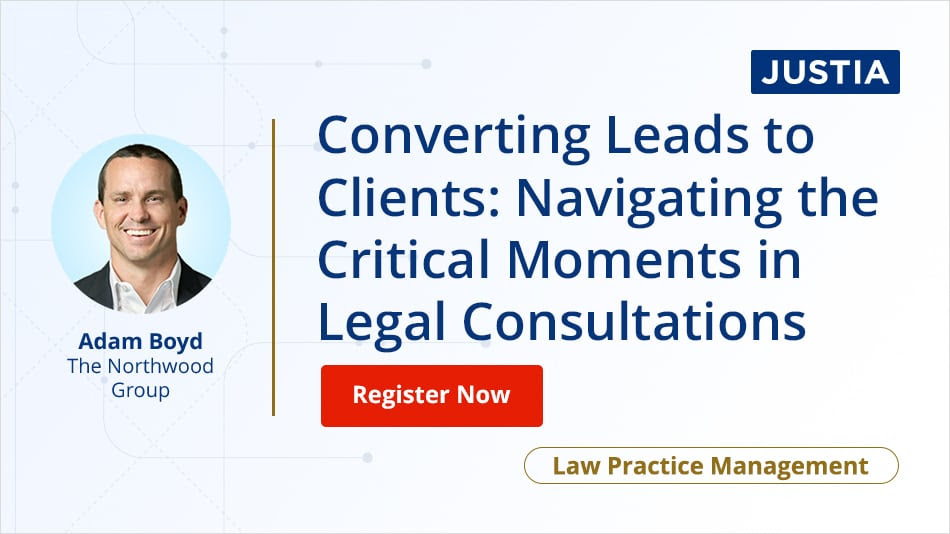
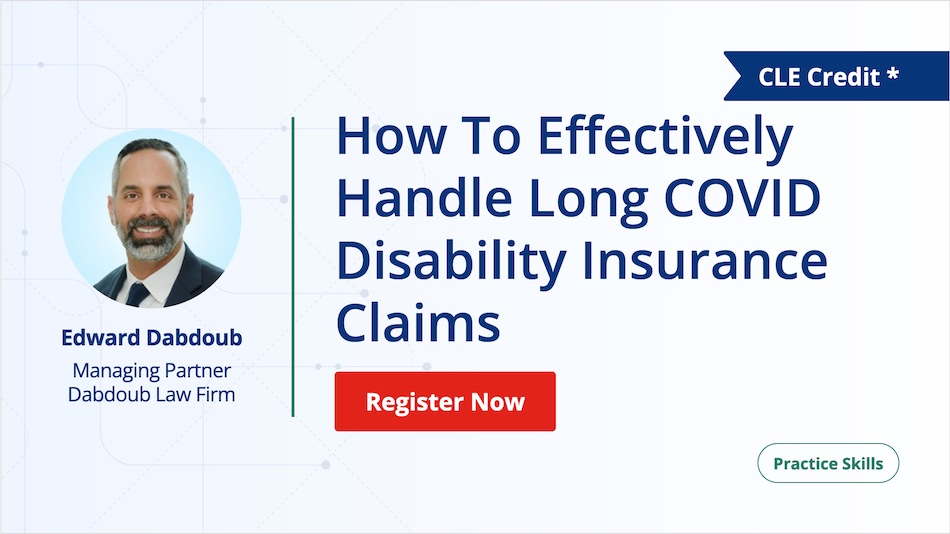
refactor: update webinar image and link

Changed region(s): [[0.0305, 0.0899, 1.0, 0.9288]]

diff --git a/dist/insights-newsletter.html b/dist/insights-newsletter.html
@@ -159,7 +159,7 @@
           <table border="0" cellpadding="0" cellspacing="0" align="center" width="100%" style="max-width:600px;margin:0 auto;border-bottom:0" bgcolor="#fff">
             <tr>
               <td style="margin:0 0 20px;padding:0 0 50px" align="left">
-                <a href="#" style="text-decoration:none;color:#06357a"><img src="https://justatic.com/v/1/emails/images/newsletters/2024/04/insights-welcome-01.jpg" alt="Welcome" border="0" style="display:block;max-width:100%"/></a>
+                <a href="#" style="text-decoration:none;color:#06357a"><img src="https://justatic.com/v/2/emails/images/newsletters/2024/04/insights-welcome-01.jpg" alt="Welcome" border="0" style="display:block;max-width:100%"/></a>
               </td>
             </tr>
             <tr>
@@ -189,9 +189,9 @@
               <td class="justia01" style="padding:0 30px 70px" align="left">
                 <div style="margin:0;padding:0">
                   <div style="margin:0 0 20px">
-                    <a href="https://connect.justia.com/webinars/converting-leads-to-clients-navigating-the-critical-moments-in-legal-consultations?utm_medium=email&utm_campaign=2024-04&utm_source=insights-newsletter&utm_content=image-webinar-1" target="_blank" style="text-decoration:none;color:#06357a"><img src="https://justatic.com/v/1/emails/images/newsletters/2024/04/insights-webinar-01.jpg" alt="How To Effectively Handle Long COVID Disability Insurance Claims" border="0" style="display:block;max-width:100%" width="580"/></a>
+                    <a href="https://connect.justia.com/webinars/how-to-effectively-handle-long-covid-disability-insurance-claims?utm_medium=email&utm_campaign=2024-04&utm_source=insights-newsletter&utm_content=image-webinar-1" target="_blank" style="text-decoration:none;color:#06357a"><img src="https://justatic.com/v/2/emails/images/newsletters/2024/04/insights-webinar-01.jpg" alt="How To Effectively Handle Long COVID Disability Insurance Claims" border="0" style="display:block;max-width:100%" width="580"/></a>
                   </div>
-                  <h3 style="font:700 22px/1.2 Arial,sans-serif;margin:0 0 10px;color:#06357a"><a href="https://connect.justia.com/webinars/converting-leads-to-clients-navigating-the-critical-moments-in-legal-consultations?utm_medium=email&utm_campaign=2024-04&utm_source=insights-newsletter&utm_content=text-webinar-title-1" target="_blank" style="text-decoration:none;color:#06357a">How To Effectively Handle Long COVID Disability Insurance Claims</a></h3>
+                  <h3 style="font:700 22px/1.2 Arial,sans-serif;margin:0 0 10px;color:#06357a"><a href="https://connect.justia.com/webinars/how-to-effectively-handle-long-covid-disability-insurance-claims?utm_medium=email&utm_campaign=2024-04&utm_source=insights-newsletter&utm_content=text-webinar-title-1" target="_blank" style="text-decoration:none;color:#06357a">How To Effectively Handle Long COVID Disability Insurance Claims</a></h3>
                   <p style="margin:0;font:18px/1.5 Arial,sans-serif">In this webinar, we will be discussing the complexities of handling a long COVID disability insurance claim and how best to present these claims to insurance companies. Insurance companies do not appreciate the extent to which long COVID symptoms can be disabling. Using our winning strategy with these types of claims gives claimants the best chance of being paid short-term and long-term disability insurance benefits, and if necessary, preparing to litigate denials.</p>
                   <div style="margin:20px 0 0px">
                     <div>
@@ -219,18 +219,18 @@
               <td class="justia01" style="padding:0 30px 70px" align="left">
                 <div style="margin:0;padding:0">
                   <div style="margin:0 0 20px">
-                    <a href="https://onward.justia.com/" target="_blank" style="text-decoration:none;color:#06357a"><img src="https://justatic.com/v/1/emails/images/newsletters/2024/04/insights-justia-desk.jpg" alt border="0" style="display:block;max-width:100%" width="580"/></a>
+                    <a href="https://onward.justia.com/" target="_blank" style="text-decoration:none;color:#06357a"><img src="https://justatic.com/v/2/emails/images/newsletters/2024/04/insights-justia-desk.jpg" alt border="0" style="display:block;max-width:100%" width="580"/></a>
                   </div>
                   <div style="margin:0 0 30px">
                     <p style="font:18px/1.5 Arial,sans-serif;margin:0 0 6px">
-                      <a href="https://onward.justia.com/justia-webinars-confronting-racial-bias-in-jury-selection/?utm_medium=email&utm_campaign=2024-04&utm_source=insights-newsletter&utm_content=text-justia-desk-title-1" target="_blank" style="text-decoration:none;color:#06357a"><b>Justia Webinars: Confronting Racial Bias in Jury Selection</b></a>
+                      <a href="https://onward.justia.com/justia-webinars-confronting-racial-bias-in-jury-selection/?utm_medium&#x3D;email&amp;utm_campaign&#x3D;2024-04&amp;utm_source&#x3D;insights-newsletter&amp;utm_content&#x3D;text-justia-desk-title-1" target="_blank" style="text-decoration:none;color:#06357a"><b>Justia Webinars: Confronting Racial Bias in Jury Selection</b></a>
                     </p>
                     <p style="font:18px/1.5 Arial,sans-serif;margin:0 0 6px">Our legal system is built upon the fundamental principle of a right to a fair trial by a jury of one’s peers; but can we consider the trial fair if the jury is not? Can an underrepresentation of marginalized communities of color in the jury truly deem a trial as fair, accurate, and reliable?</p>
                     <p style="margin:0;font:14px/1.5 Arial,sans-serif">Justia Team | March 21, 2024</p>
                   </div>
                   <div style="margin:0">
                     <p style="font:18px/1.5 Arial,sans-serif;margin:0 0 6px">
-                      <a href="https://onward.justia.com/justia-legal-resources-employment-law-center/?utm_medium=email&utm_campaign=2024-04&utm_source=insights-newsletter&utm_content=text-justia-desk-title-2" target="_blank" style="text-decoration:none;color:#06357a"><b>Justia Legal Resources: Employment Law Center</b></a>
+                      <a href="https://onward.justia.com/justia-legal-resources-employment-law-center/?utm_medium&#x3D;email&amp;utm_campaign&#x3D;2024-04&amp;utm_source&#x3D;insights-newsletter&amp;utm_content&#x3D;text-justia-desk-title-2" target="_blank" style="text-decoration:none;color:#06357a"><b>Justia Legal Resources: Employment Law Center</b></a>
                     </p>
                     <p style="font:18px/1.5 Arial,sans-serif;margin:0 0 6px">When problems arise in the workplace, employees may have questions about their rights. The Employment Law Center at Justia outlines some general answers to these questions, helping to inform and empower its readers.</p>
                     <p style="margin:0;font:14px/1.5 Arial,sans-serif">Justia Team | March 12, 2024</p>
@@ -242,7 +242,7 @@
           <table border="0" cellpadding="0" cellspacing="0" align="center" width="100%" style="max-width:600px;margin:0 auto" bgcolor="#fff">
             <tr>
               <td class="justia01" style="padding:0 30px 70px" align="center">
-                <a href="https://www.justia.com/marketing/lawyer-directory/?utm_medium=email&utm_campaign=2024-04&utm_source=insights-newsletter&utm_content=banner-premium-memberships-v00" target="_blank" style="text-decoration:none;color:#06357a"><img src="https://justatic.com/v/1/emails/images/newsletters/2024/04/insights-premium-placement.png" alt border="0" style="display:block;max-width:100%;border-radius:10px" width="580"/></a>
+                <a href="https://www.justia.com/marketing/lawyer-directory/?utm_medium=email&utm_campaign=2024-04&utm_source=insights-newsletter&utm_content=banner-premium-memberships-v00" target="_blank" style="text-decoration:none;color:#06357a"><img src="https://justatic.com/v/2/emails/images/newsletters/2024/04/insights-premium-placement.png" alt border="0" style="display:block;max-width:100%;border-radius:10px" width="580"/></a>
               </td>
             </tr>
           </table>
@@ -266,7 +266,7 @@
                   <table border="0" cellpadding="0" cellspacing="0" align="center" width="100%" class="justia08" style="display:block;padding:0px;border-radius:0 10px 10px 0;margin:0 0 20px" bgcolor="#f2f4f8">
                     <tr>
                       <td style="padding:0" width="23%" align="left">
-                        <a href="https://lawyers.justia.com/lawyer/1487339?utm_medium=email&utm_source=directory-newsletter&utm_campaign=2024-04&utm_content=image-justia-lawyer-rating-and-reviews-featured-1" target="_blank" style="text-decoration:none;color:#000"><img src="https://justatic.com/v/1/emails/images/newsletters/2024/04/insights-featured-lawyer-01.jpg" alt="Adrian Thomas" border="0" style="display:block;max-width:100%" width="150"/></a>
+                        <a href="https://lawyers.justia.com/lawyer/1487339?utm_medium=email&utm_source=directory-newsletter&utm_campaign=2024-04&utm_content=image-justia-lawyer-rating-and-reviews-featured-1" target="_blank" style="text-decoration:none;color:#000"><img src="https://justatic.com/v/2/emails/images/newsletters/2024/04/insights-featured-lawyer-01.jpg" alt="Adrian Thomas" border="0" style="display:block;max-width:100%" width="150"/></a>
                       </td>
                       <td style="padding:0 25px 0" width="32%" align="left">
                         <p style="margin:0 0 5px;font:18px/1.1 Arial,sans-serif"><a href="https://lawyers.justia.com/lawyer/1487339/lawyer-reviews?utm_medium=email&utm_source=directory-newsletter&utm_campaign=2024-04&utm_content=name-justia-lawyer-rating-and-reviews-featured-1" target="_blank" style="text-decoration:none;color:#000">Adrian Thomas</a></p>
@@ -305,14 +305,14 @@
                 <div style="margin:0;padding:0">
                   <table border="0" cellpadding="0" cellspacing="0" align="center" width="100%" class="justia08">
                     <tr style="background-color:#06357a;color:#fff" bgcolor="#06357a">
-                      <td class="justia01" style="padding:20px 25px" width="36" align="left" valign="top"><img src="https://justatic.com/v/1/emails/images/newsletters/2024/04/q-icon.png" alt="icon" border="0" style="display:block;max-width:100%" /></td>
+                      <td class="justia01" style="padding:20px 25px" width="36" align="left" valign="top"><img src="https://justatic.com/v/2/emails/images/newsletters/2024/04/q-icon.png" alt="icon" border="0" style="display:block;max-width:100%" /></td>
                       <td align="left"><p style="margin:0 0 20px 0;font:16px/1.2 Arial,sans-serif;padding:20px 25px 0 0;font-weight:700">Are apartments able to rent out my occupied apartment while we are still under lease?</p></td>
                     </tr>
                   </table>
                   <table border="0" cellpadding="0" cellspacing="0" align="center" width="100%" class="justia08">
                     <tr style="background-color:#f2f4f8;color:#06357a" bgcolor="#f2f4f8">
                       <td class="justia01" style="padding:20px 25px 0" width="120" align="left" valign="top">
-                        <a href="https://answers.justia.com/question/2024/03/12/are-apartments-able-to-rent-out-my-occup-1005883?utm_medium=email&utm_campaign=2024-04&utm_source=insights-newsletter&utm_content=image-featured-qa-1" target="_blank" style="text-decoration:none;color:#06357a"><img src="https://justatic.com/v/1/emails/images/newsletters/2024/04/insights-lawyer-qa-01.png" alt="Linda Liang" border="0" style="display:block;max-width:100%"/></a>
+                        <a href="https://answers.justia.com/question/2024/03/12/are-apartments-able-to-rent-out-my-occup-1005883?utm_medium=email&utm_campaign=2024-04&utm_source=insights-newsletter&utm_content=image-featured-qa-1" target="_blank" style="text-decoration:none;color:#06357a"><img src="https://justatic.com/v/2/emails/images/newsletters/2024/04/insights-lawyer-qa-01.png" alt="Linda Liang" border="0" style="display:block;max-width:100%"/></a>
                       </td>
                       <td align="left">
                         <p style="margin:0 0 8px 0;font:16px/1.4 Arial,sans-serif;padding:20px 25px 0 0;font-style:italic"><b>Answer:</b> If you look at the lease closely, there should be a provision discussing requirement for notice for renewal. If the lease requires you to…</p>
@@ -353,7 +353,7 @@
                       </p>
                     </div>
                     <div style="margin:0 0 30px;text-align:center">
-                      <a href="https://www.mimsmediate.com/" target="_blank" style="text-decoration:none;color:#06357a"><img src="https://justatic.com/v/1/emails/images/newsletters/2024/04/insights-featured-site-01.png" alt="B.L. Mims LLC" border="0" style="display:block;max-width:100%" width="580"/></a>
+                      <a href="https://www.mimsmediate.com/" target="_blank" style="text-decoration:none;color:#06357a"><img src="https://justatic.com/v/2/emails/images/newsletters/2024/04/insights-featured-site-01.png" alt="B.L. Mims LLC" border="0" style="display:block;max-width:100%" width="580"/></a>
                     </div>
                   </div>
                   <p style="margin:0;font:18px/1.5 Arial,sans-serif">At Justia, we build law firm websites that are responsive, mobile friendly, and AMP enabled. Our commitment to high-quality, relevant websites will help you attract clients in the practice areas and locations most important to your firm.</p>
@@ -412,9 +412,9 @@
                 <div style="margin:0;padding:0">
                   <p style="font:18px/1.5 Arial,sans-serif;margin:0 0 20px;text-align:left;font-weight:400">These are our editors' picks from across the web. Because you can't always trust an automated feed.</p>
                   <div style="margin:0 0 20px">
-                    <a href="#" target="_blank" style="text-decoration:none;color:#06357a"><img src="https://justatic.com/v/1/emails/images/newsletters/2024/04/insights-trending-news.jpg" alt border="0" style="display:block;max-width:100%" width="580"/></a>
+                    <a href="#" target="_blank" style="text-decoration:none;color:#06357a"><img src="https://justatic.com/v/2/emails/images/newsletters/2024/04/insights-trending-news.jpg" alt border="0" style="display:block;max-width:100%" width="580"/></a>
                   </div>
-                  <div style="padding:0 0 20px;margin:0 0 20px;display:block;color:#06357a;text-align:center;background:url(https://justatic.com/v/1/emails/images/newsletters/2024/04/line-decoration.png) no-repeat center bottom">
+                  <div style="padding:0 0 20px;margin:0 0 20px;display:block;color:#06357a;text-align:center;background:url(https://justatic.com/v/2/emails/images/newsletters/2024/04/line-decoration.png) no-repeat center bottom">
                     <p style="margin:0 0 20px;font:700 22px/1.1 Arial,sans-serif;text-align:left;color:#000">Tech</p>
                     <div style="margin:0 0 20px;text-align:left">
                       <p style="margin:0;font:18px/1.5 Arial,sans-serif">
@@ -441,7 +441,7 @@
                       <p style="margin:0;font:18px/1.5 Arial,sans-serif;display:block;font-style:italic;color:#000">Via Search Engine Journal</p>
                     </div>
                   </div>
-                  <div style="padding:0 0 20px;margin:0 0 20px;display:block;color:#06357a;text-align:center;background:url(https://justatic.com/v/1/emails/images/newsletters/2024/04/line-decoration.png) no-repeat center bottom">
+                  <div style="padding:0 0 20px;margin:0 0 20px;display:block;color:#06357a;text-align:center;background:url(https://justatic.com/v/2/emails/images/newsletters/2024/04/line-decoration.png) no-repeat center bottom">
                     <p style="margin:0 0 20px;font:700 22px/1.1 Arial,sans-serif;text-align:left;color:#000">SEO</p>
                     <div style="margin:0 0 20px;text-align:left">
                       <p style="margin:0;font:18px/1.5 Arial,sans-serif">
@@ -468,7 +468,7 @@
                       <p style="margin:0;font:18px/1.5 Arial,sans-serif;display:block;font-style:italic;color:#000">Via Search Engine Land</p>
                     </div>
                   </div>
-                  <div style="padding:0 0 20px;margin:0 0 20px;display:block;color:#06357a;text-align:center;background:url(https://justatic.com/v/1/emails/images/newsletters/2024/04/line-decoration.png) no-repeat center bottom">
+                  <div style="padding:0 0 20px;margin:0 0 20px;display:block;color:#06357a;text-align:center;background:url(https://justatic.com/v/2/emails/images/newsletters/2024/04/line-decoration.png) no-repeat center bottom">
                     <p style="margin:0 0 20px;font:700 22px/1.1 Arial,sans-serif;text-align:left;color:#000">Social Media</p>
                     <div style="margin:0 0 20px;text-align:left">
                       <p style="margin:0;font:18px/1.5 Arial,sans-serif">
@@ -542,7 +542,7 @@
               <td class="justia01" style="padding:0 30px 70px" align="left">
                 <div style="margin:0;padding:0">
                   <div style="margin:0 0 20px">
-                    <a href="#" target="_blank" style="text-decoration:none;color:#06357a"><img src="https://justatic.com/v/1/emails/images/newsletters/2024/04/insights-our-team-01.jpg" alt="Justia Presentation at UTC" border="0" style="display:block;max-width:100%" width="580"/></a>
+                    <a href="#" target="_blank" style="text-decoration:none;color:#06357a"><img src="https://justatic.com/v/2/emails/images/newsletters/2024/04/insights-our-team-01.jpg" alt="Justia Presentation at UTC" border="0" style="display:block;max-width:100%" width="580"/></a>
                   </div>
                   <h3 style="font:700 22px/1.2 Arial,sans-serif;margin:0 0 10px;color:#000">Justia Presentation at UTC</h3>
                   <p style="margin:0;font:18px/1.5 Arial,sans-serif">Recently, members of our design team presented to a group of students at Universidad Tecnológica de Coahuila (UTC). They got to hear about life at Justia, our team collaborations, and the professional as well as personal development we experience working here. We always enjoy sharing information about Justia with students!</p>
@@ -566,7 +566,7 @@
               <td class="justia01" style="padding:0 30px 70px" align="left">
                 <div style="margin:0;padding:0">
                   <div style="margin:0 0 20px">
-                    <a href="#" target="_blank" style="text-decoration:none;color:#06357a"><img src="https://justatic.com/v/1/emails/images/newsletters/2024/04/insights-hugpug-01.jpg" alt="A Pug’s Tale" border="0" style="display:block;max-width:100%" width="580"/></a>
+                    <a href="#" target="_blank" style="text-decoration:none;color:#06357a"><img src="https://justatic.com/v/2/emails/images/newsletters/2024/04/insights-hugpug-01.jpg" alt="A Pug’s Tale" border="0" style="display:block;max-width:100%" width="580"/></a>
                   </div>
                   <h3 style="font:700 22px/1.2 Arial,sans-serif;margin:0 0 10px;color:#000">Springtime Playmates</h3>
                   <p style="margin:0;font:18px/1.5 Arial,sans-serif">With the arrival of spring, Zoey is bursting with energy and ready to play all day in the warm sunshine! Here she is romping around with her pal Eddie.</p>

diff --git a/dist/insights-newsletter-CLIENT.html b/dist/insights-newsletter-CLIENT.html
@@ -159,7 +159,7 @@
           <table border="0" cellpadding="0" cellspacing="0" align="center" width="100%" style="max-width:600px;margin:0 auto;border-bottom:0" bgcolor="#fff">
             <tr>
               <td style="margin:0 0 20px;padding:0 0 50px" align="left">
-                <a href="#" style="text-decoration:none;color:#06357a"><img src="https://justatic.com/v/1/emails/images/newsletters/2024/04/insights-welcome-01.jpg" alt="Welcome" border="0" style="display:block;max-width:100%"/></a>
+                <a href="#" style="text-decoration:none;color:#06357a"><img src="https://justatic.com/v/2/emails/images/newsletters/2024/04/insights-welcome-01.jpg" alt="Welcome" border="0" style="display:block;max-width:100%"/></a>
               </td>
             </tr>
             <tr>
@@ -189,9 +189,9 @@
               <td class="justia01" style="padding:0 30px 70px" align="left">
                 <div style="margin:0;padding:0">
                   <div style="margin:0 0 20px">
-                    <a href="https://connect.justia.com/webinars/converting-leads-to-clients-navigating-the-critical-moments-in-legal-consultations?utm_medium=email&utm_campaign=2024-04&utm_source=insights-newsletter&utm_content=image-webinar-1" target="_blank" style="text-decoration:none;color:#06357a"><img src="https://justatic.com/v/1/emails/images/newsletters/2024/04/insights-webinar-01.jpg" alt="How To Effectively Handle Long COVID Disability Insurance Claims" border="0" style="display:block;max-width:100%" width="580"/></a>
+                    <a href="https://connect.justia.com/webinars/how-to-effectively-handle-long-covid-disability-insurance-claims?utm_medium=email&utm_campaign=2024-04&utm_source=insights-newsletter&utm_content=image-webinar-1" target="_blank" style="text-decoration:none;color:#06357a"><img src="https://justatic.com/v/2/emails/images/newsletters/2024/04/insights-webinar-01.jpg" alt="How To Effectively Handle Long COVID Disability Insurance Claims" border="0" style="display:block;max-width:100%" width="580"/></a>
                   </div>
-                  <h3 style="font:700 22px/1.2 Arial,sans-serif;margin:0 0 10px;color:#06357a"><a href="https://connect.justia.com/webinars/converting-leads-to-clients-navigating-the-critical-moments-in-legal-consultations?utm_medium=email&utm_campaign=2024-04&utm_source=insights-newsletter&utm_content=text-webinar-title-1" target="_blank" style="text-decoration:none;color:#06357a">How To Effectively Handle Long COVID Disability Insurance Claims</a></h3>
+                  <h3 style="font:700 22px/1.2 Arial,sans-serif;margin:0 0 10px;color:#06357a"><a href="https://connect.justia.com/webinars/how-to-effectively-handle-long-covid-disability-insurance-claims?utm_medium=email&utm_campaign=2024-04&utm_source=insights-newsletter&utm_content=text-webinar-title-1" target="_blank" style="text-decoration:none;color:#06357a">How To Effectively Handle Long COVID Disability Insurance Claims</a></h3>
                   <p style="margin:0;font:18px/1.5 Arial,sans-serif">In this webinar, we will be discussing the complexities of handling a long COVID disability insurance claim and how best to present these claims to insurance companies. Insurance companies do not appreciate the extent to which long COVID symptoms can be disabling. Using our winning strategy with these types of claims gives claimants the best chance of being paid short-term and long-term disability insurance benefits, and if necessary, preparing to litigate denials.</p>
                   <div style="margin:20px 0 0px">
                     <div>
@@ -219,7 +219,7 @@
               <td class="justia01" style="padding:0 30px 70px" align="left">
                 <div style="margin:0;padding:0">
                   <div style="margin:0 0 20px">
-                    <a href="https://onward.justia.com/" target="_blank" style="text-decoration:none;color:#06357a"><img src="https://justatic.com/v/1/emails/images/newsletters/2024/04/insights-justia-desk.jpg" alt border="0" style="display:block;max-width:100%" width="580"/></a>
+                    <a href="https://onward.justia.com/" target="_blank" style="text-decoration:none;color:#06357a"><img src="https://justatic.com/v/2/emails/images/newsletters/2024/04/insights-justia-desk.jpg" alt border="0" style="display:block;max-width:100%" width="580"/></a>
                   </div>
                   <div style="margin:0 0 30px">
                     <p style="font:18px/1.5 Arial,sans-serif;margin:0 0 6px">
@@ -242,7 +242,7 @@
           <table border="0" cellpadding="0" cellspacing="0" align="center" width="100%" style="max-width:600px;margin:0 auto" bgcolor="#fff">
             <tr>
               <td class="justia01" style="padding:0 30px 70px" align="center">
-                <a href="https://www.justia.com/marketing/lawyer-directory/?utm_medium=email&utm_campaign=2024-04&utm_source=insights-newsletter&utm_content=banner-premium-memberships-v00" target="_blank" style="text-decoration:none;color:#06357a"><img src="https://justatic.com/v/1/emails/images/newsletters/2024/04/insights-premium-placement.png" alt border="0" style="display:block;max-width:100%;border-radius:10px" width="580"/></a>
+                <a href="https://www.justia.com/marketing/lawyer-directory/?utm_medium=email&utm_campaign=2024-04&utm_source=insights-newsletter&utm_content=banner-premium-memberships-v00" target="_blank" style="text-decoration:none;color:#06357a"><img src="https://justatic.com/v/2/emails/images/newsletters/2024/04/insights-premium-placement.png" alt border="0" style="display:block;max-width:100%;border-radius:10px" width="580"/></a>
               </td>
             </tr>
           </table>
@@ -266,7 +266,7 @@
                   <table border="0" cellpadding="0" cellspacing="0" align="center" width="100%" class="justia08" style="display:block;padding:0px;border-radius:0 10px 10px 0;margin:0 0 20px" bgcolor="#f2f4f8">
                     <tr>
                       <td style="padding:0" width="23%" align="left">
-                        <a href="https://lawyers.justia.com/lawyer/1487339?utm_medium=email&utm_source=directory-newsletter&utm_campaign=2024-04&utm_content=image-justia-lawyer-rating-and-reviews-featured-1" target="_blank" style="text-decoration:none;color:#000"><img src="https://justatic.com/v/1/emails/images/newsletters/2024/04/insights-featured-lawyer-01.jpg" alt="Adrian Thomas" border="0" style="display:block;max-width:100%" width="150"/></a>
+                        <a href="https://lawyers.justia.com/lawyer/1487339?utm_medium=email&utm_source=directory-newsletter&utm_campaign=2024-04&utm_content=image-justia-lawyer-rating-and-reviews-featured-1" target="_blank" style="text-decoration:none;color:#000"><img src="https://justatic.com/v/2/emails/images/newsletters/2024/04/insights-featured-lawyer-01.jpg" alt="Adrian Thomas" border="0" style="display:block;max-width:100%" width="150"/></a>
                       </td>
                       <td style="padding:0 25px 0" width="32%" align="left">
                         <p style="margin:0 0 5px;font:18px/1.1 Arial,sans-serif"><a href="https://lawyers.justia.com/lawyer/1487339/lawyer-reviews?utm_medium=email&utm_source=directory-newsletter&utm_campaign=2024-04&utm_content=name-justia-lawyer-rating-and-reviews-featured-1" target="_blank" style="text-decoration:none;color:#000">Adrian Thomas</a></p>
@@ -305,14 +305,14 @@
                 <div style="margin:0;padding:0">
                   <table border="0" cellpadding="0" cellspacing="0" align="center" width="100%" class="justia08">
                     <tr style="background-color:#06357a;color:#fff" bgcolor="#06357a">
-                      <td class="justia01" style="padding:20px 25px" width="36" align="left" valign="top"><img src="https://justatic.com/v/1/emails/images/newsletters/2024/04/q-icon.png" alt="icon" border="0" style="display:block;max-width:100%" /></td>
+                      <td class="justia01" style="padding:20px 25px" width="36" align="left" valign="top"><img src="https://justatic.com/v/2/emails/images/newsletters/2024/04/q-icon.png" alt="icon" border="0" style="display:block;max-width:100%" /></td>
                       <td align="left"><p style="margin:0 0 20px 0;font:16px/1.2 Arial,sans-serif;padding:20px 25px 0 0;font-weight:700">Are apartments able to rent out my occupied apartment while we are still under lease?</p></td>
                     </tr>
                   </table>
                   <table border="0" cellpadding="0" cellspacing="0" align="center" width="100%" class="justia08">
                     <tr style="background-color:#f2f4f8;color:#06357a" bgcolor="#f2f4f8">
                       <td class="justia01" style="padding:20px 25px 0" width="120" align="left" valign="top">
-                        <a href="https://answers.justia.com/question/2024/03/12/are-apartments-able-to-rent-out-my-occup-1005883?utm_medium=email&utm_campaign=2024-04&utm_source=insights-newsletter&utm_content=image-featured-qa-1" target="_blank" style="text-decoration:none;color:#06357a"><img src="https://justatic.com/v/1/emails/images/newsletters/2024/04/insights-lawyer-qa-01.png" alt="Linda Liang" border="0" style="display:block;max-width:100%"/></a>
+                        <a href="https://answers.justia.com/question/2024/03/12/are-apartments-able-to-rent-out-my-occup-1005883?utm_medium=email&utm_campaign=2024-04&utm_source=insights-newsletter&utm_content=image-featured-qa-1" target="_blank" style="text-decoration:none;color:#06357a"><img src="https://justatic.com/v/2/emails/images/newsletters/2024/04/insights-lawyer-qa-01.png" alt="Linda Liang" border="0" style="display:block;max-width:100%"/></a>
                       </td>
                       <td align="left">
                         <p style="margin:0 0 8px 0;font:16px/1.4 Arial,sans-serif;padding:20px 25px 0 0;font-style:italic"><b>Answer:</b> If you look at the lease closely, there should be a provision discussing requirement for notice for renewal. If the lease requires you to…</p>
@@ -353,7 +353,7 @@
                       </p>
                     </div>
                     <div style="margin:0 0 30px;text-align:center">
-                      <a href="https://www.mimsmediate.com/" target="_blank" style="text-decoration:none;color:#06357a"><img src="https://justatic.com/v/1/emails/images/newsletters/2024/04/insights-featured-site-01.png" alt="B.L. Mims LLC" border="0" style="display:block;max-width:100%" width="580"/></a>
+                      <a href="https://www.mimsmediate.com/" target="_blank" style="text-decoration:none;color:#06357a"><img src="https://justatic.com/v/2/emails/images/newsletters/2024/04/insights-featured-site-01.png" alt="B.L. Mims LLC" border="0" style="display:block;max-width:100%" width="580"/></a>
                     </div>
                   </div>
                   <p style="margin:0;font:18px/1.5 Arial,sans-serif">At Justia, we build law firm websites that are responsive, mobile friendly, and AMP enabled. Our commitment to high-quality, relevant websites will help you attract clients in the practice areas and locations most important to your firm.</p>
@@ -412,9 +412,9 @@
                 <div style="margin:0;padding:0">
                   <p style="font:18px/1.5 Arial,sans-serif;margin:0 0 20px;text-align:left;font-weight:400">These are our editors' picks from across the web. Because you can't always trust an automated feed.</p>
                   <div style="margin:0 0 20px">
-                    <a href="#" target="_blank" style="text-decoration:none;color:#06357a"><img src="https://justatic.com/v/1/emails/images/newsletters/2024/04/insights-trending-news.jpg" alt border="0" style="display:block;max-width:100%" width="580"/></a>
+                    <a href="#" target="_blank" style="text-decoration:none;color:#06357a"><img src="https://justatic.com/v/2/emails/images/newsletters/2024/04/insights-trending-news.jpg" alt border="0" style="display:block;max-width:100%" width="580"/></a>
                   </div>
-                  <div style="padding:0 0 20px;margin:0 0 20px;display:block;color:#06357a;text-align:center;background:url(https://justatic.com/v/1/emails/images/newsletters/2024/04/line-decoration.png) no-repeat center bottom">
+                  <div style="padding:0 0 20px;margin:0 0 20px;display:block;color:#06357a;text-align:center;background:url(https://justatic.com/v/2/emails/images/newsletters/2024/04/line-decoration.png) no-repeat center bottom">
                     <p style="margin:0 0 20px;font:700 22px/1.1 Arial,sans-serif;text-align:left;color:#000">Tech</p>
                     <div style="margin:0 0 20px;text-align:left">
                       <p style="margin:0;font:18px/1.5 Arial,sans-serif">
@@ -441,7 +441,7 @@
                       <p style="margin:0;font:18px/1.5 Arial,sans-serif;display:block;font-style:italic;color:#000">Via Search Engine Journal</p>
                     </div>
                   </div>
-                  <div style="padding:0 0 20px;margin:0 0 20px;display:block;color:#06357a;text-align:center;background:url(https://justatic.com/v/1/emails/images/newsletters/2024/04/line-decoration.png) no-repeat center bottom">
+                  <div style="padding:0 0 20px;margin:0 0 20px;display:block;color:#06357a;text-align:center;background:url(https://justatic.com/v/2/emails/images/newsletters/2024/04/line-decoration.png) no-repeat center bottom">
                     <p style="margin:0 0 20px;font:700 22px/1.1 Arial,sans-serif;text-align:left;color:#000">SEO</p>
                     <div style="margin:0 0 20px;text-align:left">
                       <p style="margin:0;font:18px/1.5 Arial,sans-serif">
@@ -468,7 +468,7 @@
                       <p style="margin:0;font:18px/1.5 Arial,sans-serif;display:block;font-style:italic;color:#000">Via Search Engine Land</p>
                     </div>
                   </div>
-                  <div style="padding:0 0 20px;margin:0 0 20px;display:block;color:#06357a;text-align:center;background:url(https://justatic.com/v/1/emails/images/newsletters/2024/04/line-decoration.png) no-repeat center bottom">
+                  <div style="padding:0 0 20px;margin:0 0 20px;display:block;color:#06357a;text-align:center;background:url(https://justatic.com/v/2/emails/images/newsletters/2024/04/line-decoration.png) no-repeat center bottom">
                     <p style="margin:0 0 20px;font:700 22px/1.1 Arial,sans-serif;text-align:left;color:#000">Social Media</p>
                     <div style="margin:0 0 20px;text-align:left">
                       <p style="margin:0;font:18px/1.5 Arial,sans-serif">
@@ -542,7 +542,7 @@
               <td class="justia01" style="padding:0 30px 70px" align="left">
                 <div style="margin:0;padding:0">
                   <div style="margin:0 0 20px">
-                    <a href="#" target="_blank" style="text-decoration:none;color:#06357a"><img src="https://justatic.com/v/1/emails/images/newsletters/2024/04/insights-our-team-01.jpg" alt="Justia Presentation at UTC" border="0" style="display:block;max-width:100%" width="580"/></a>
+                    <a href="#" target="_blank" style="text-decoration:none;color:#06357a"><img src="https://justatic.com/v/2/emails/images/newsletters/2024/04/insights-our-team-01.jpg" alt="Justia Presentation at UTC" border="0" style="display:block;max-width:100%" width="580"/></a>
                   </div>
                   <h3 style="font:700 22px/1.2 Arial,sans-serif;margin:0 0 10px;color:#000">Justia Presentation at UTC</h3>
                   <p style="margin:0;font:18px/1.5 Arial,sans-serif">Recently, members of our design team presented to a group of students at Universidad Tecnológica de Coahuila (UTC). They got to hear about life at Justia, our team collaborations, and the professional as well as personal development we experience working here. We always enjoy sharing information about Justia with students!</p>
@@ -566,7 +566,7 @@
               <td class="justia01" style="padding:0 30px 70px" align="left">
                 <div style="margin:0;padding:0">
                   <div style="margin:0 0 20px">
-                    <a href="#" target="_blank" style="text-decoration:none;color:#06357a"><img src="https://justatic.com/v/1/emails/images/newsletters/2024/04/insights-hugpug-01.jpg" alt="A Pug’s Tale" border="0" style="display:block;max-width:100%" width="580"/></a>
+                    <a href="#" target="_blank" style="text-decoration:none;color:#06357a"><img src="https://justatic.com/v/2/emails/images/newsletters/2024/04/insights-hugpug-01.jpg" alt="A Pug’s Tale" border="0" style="display:block;max-width:100%" width="580"/></a>
                   </div>
                   <h3 style="font:700 22px/1.2 Arial,sans-serif;margin:0 0 10px;color:#000">Springtime Playmates</h3>
                   <p style="margin:0;font:18px/1.5 Arial,sans-serif">With the arrival of spring, Zoey is bursting with energy and ready to play all day in the warm sunshine! Here she is romping around with her pal Eddie.</p>
